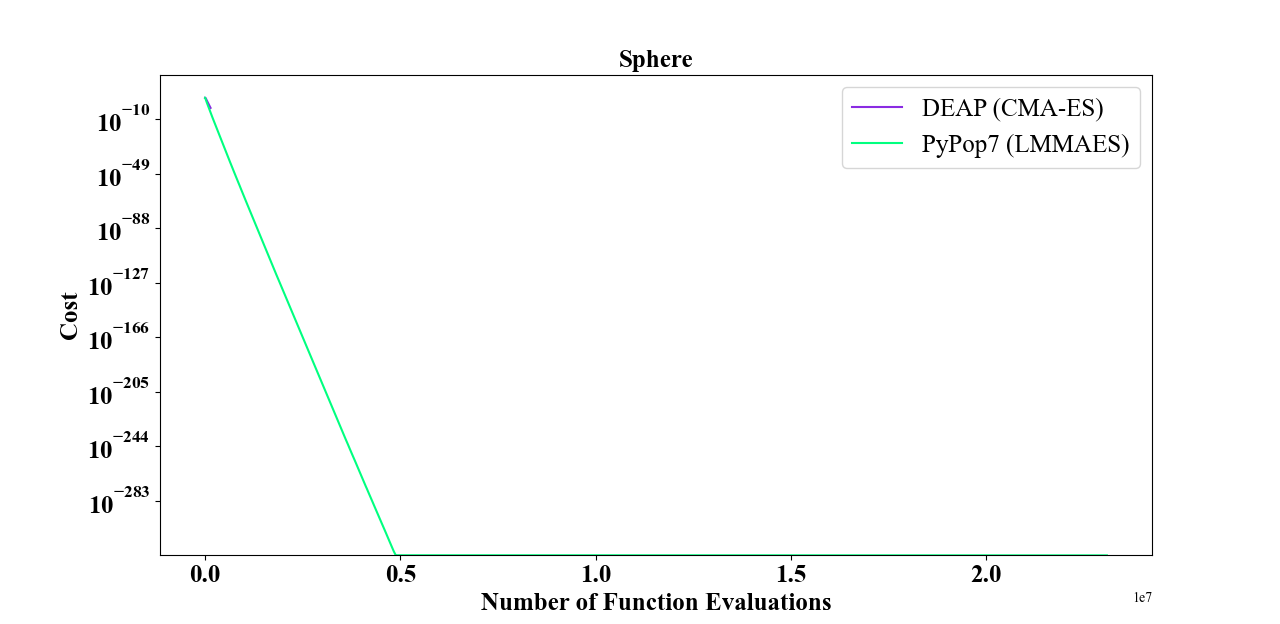
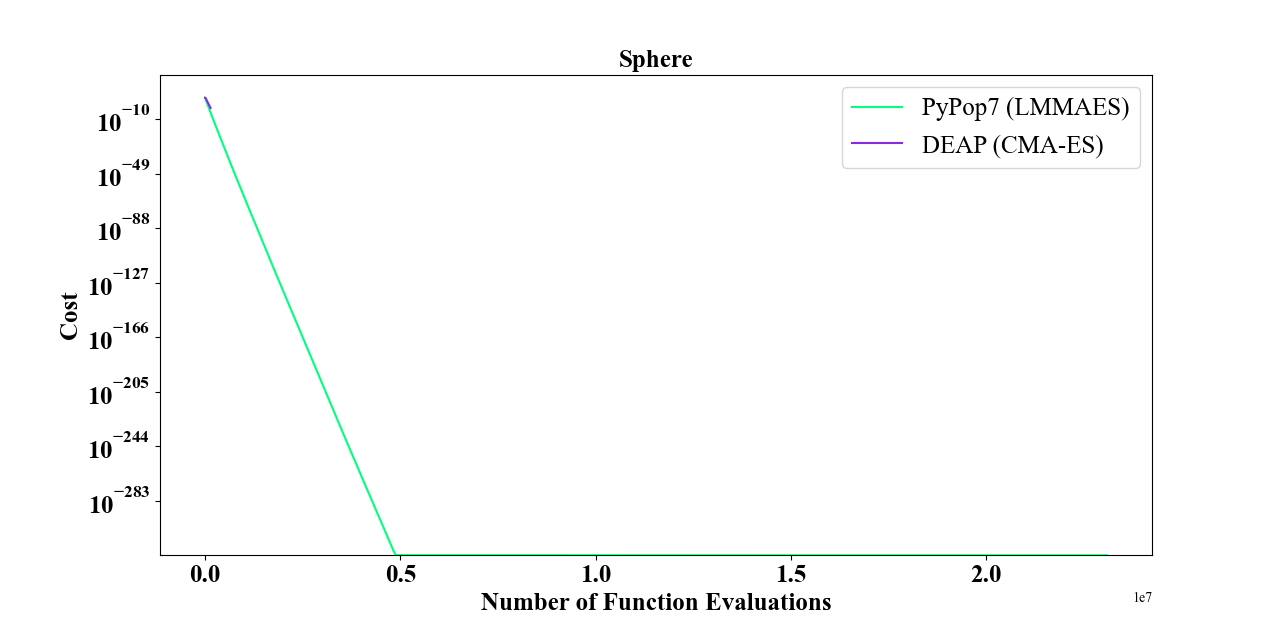
Update docs/efficiency/sphere/compare_deap-cmaes_vs_pypop7-lmmaes.py

Changed region(s): [[0.7188, 0.2131, 0.875, 0.2436], [0.7188, 0.1522, 0.875, 0.1827]]

diff --git a/docs/efficiency/sphere/compare_deap-cmaes_vs_pypop7-lmmaes.py b/docs/efficiency/sphere/compare_deap-cmaes_vs_pypop7-lmmaes.py
@@ -19,9 +19,9 @@ def read_pickle(s, ii):
 
 if __name__ == '__main__':
     n_trials = 10
-    algos = ['DEAP', 'PYPOP7LA']
-    labels = ['DEAP (CMA-ES)', 'PyPop7 (LMMAES)']
-    colors = ['blueviolet', 'springgreen']
+    algos = ['PYPOP7LA', 'DEAP']
+    labels = ['PyPop7 (LMMAES)', 'DEAP (CMA-ES)']
+    colors = ['springgreen', 'blueviolet']
     max_runtime, fitness_threshold = 3600*3 - 10*60, 1e-10
     time, fitness, fe = [], [], []
     for j in range(len(algos)):  # initialize
@@ -68,6 +68,40 @@ if __name__ == '__main__':
     plt.legend(labels, fontsize=18)
     plt.show()
 
+    algos = ['DEAP', 'PYPOP7LA']
+    labels = ['DEAP (CMA-ES)', 'PyPop7 (LMMAES)']
+    colors = ['blueviolet', 'springgreen']
+    max_runtime, fitness_threshold = 3600 * 3 - 10 * 60, 1e-10
+    time, fitness, fe = [], [], []
+    for j in range(len(algos)):  # initialize
+        time.append([])
+        fitness.append([])
+        fe.append([])
+        for i in range(n_trials):
+            time[j].append([])
+            fitness[j].append([])
+            fe[j].append([])
+    for i in range(n_trials):
+        for j, a in enumerate(algos):
+            results = read_pickle(a, str(i + 1))
+            time[j][i] = results['fitness'][:, 0] * results['runtime'] / results['n_function_evaluations']
+            fe[j][i] = results['fitness'][:, 0]
+            y = results['fitness'][:, 1]
+            fitness[j][i] = y
+            print(i + 1, ' * ', a, ':', results['n_function_evaluations'], results['best_so_far_y'])
+    top_fitness, top_order = [], []
+    for j, a in enumerate(algos):
+        run, fit, r_f = [], [], []
+        for i in range(len(time[j])):
+            run.append(time[j][i][-1] if time[j][i][-1] <= max_runtime else max_runtime)
+            fit.append(fitness[j][i][-1] if fitness[j][i][-1] >= fitness_threshold else fitness_threshold)
+            r_f.append([run[i], fit[i], i])
+        r_f.sort(key=lambda x: (x[0], x[1]))  # sort by first runtime then fitness
+        order = r_f[int(n_trials / 2)][2]  # for median (but non-standard for simplicity)
+        top_order.append(order)
+        top_fitness.append([run[order], fit[order], a])
+    top_fitness.sort(key=lambda x: (x[0], x[1]))
+    top_fitness = [t for t in [tr[2] for tr in top_fitness]]
     fig = plt.figure(figsize=(8.5, 8.5))
     plt.rcParams['font.family'] = 'Times New Roman'
     ax1 = fig.add_subplot(111)
